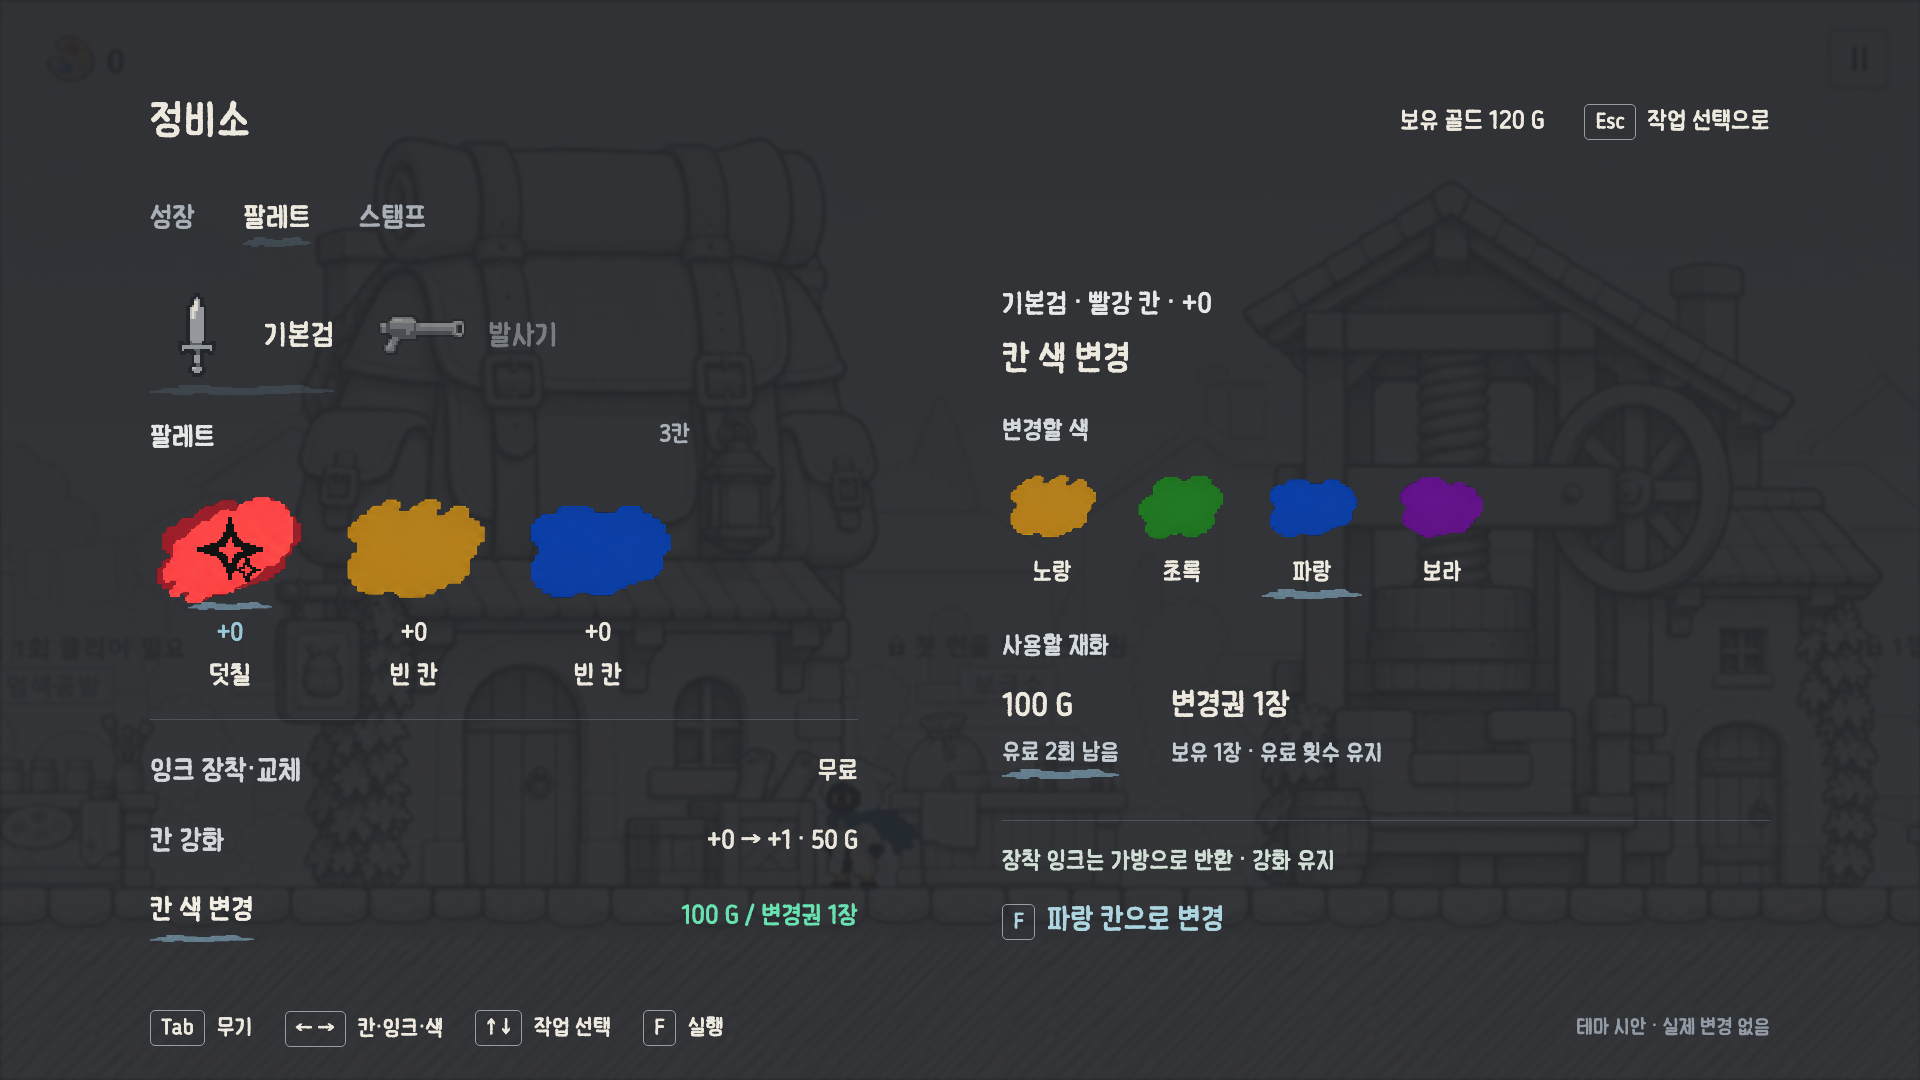
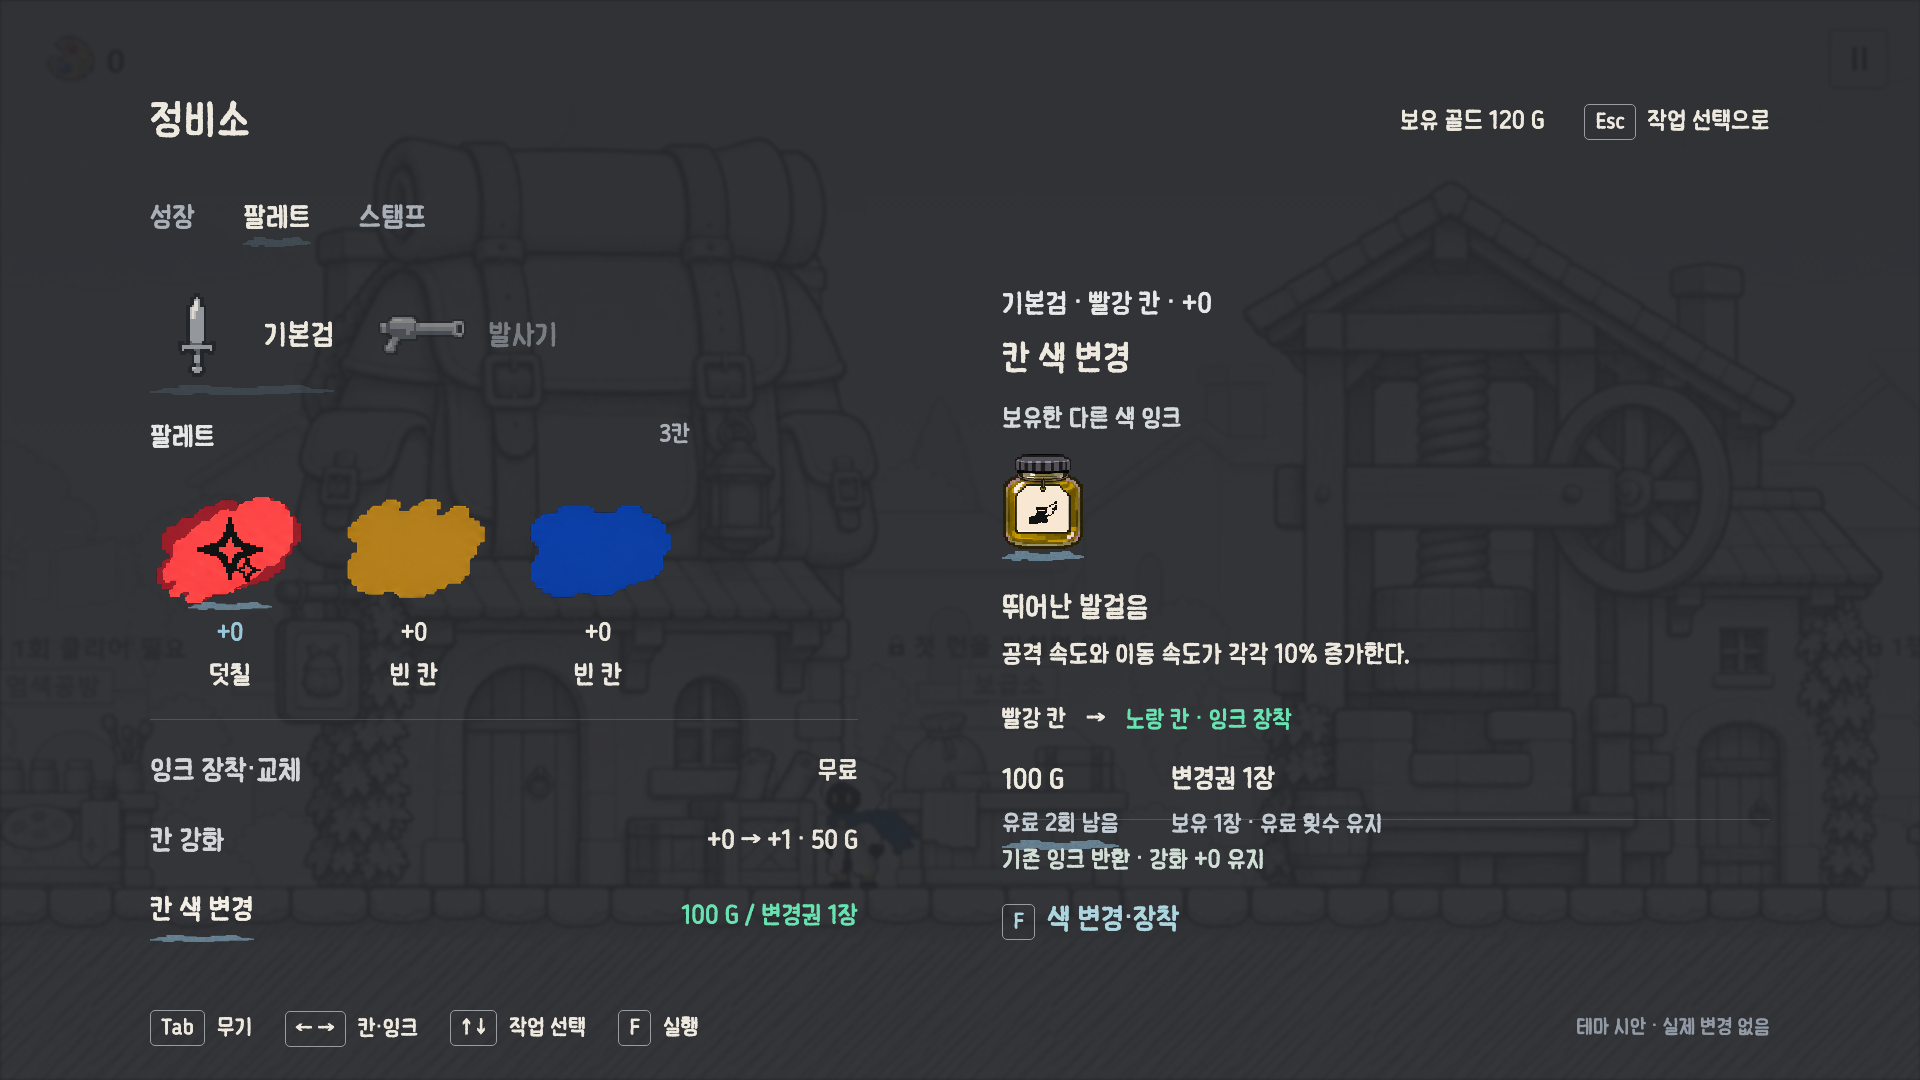
Select owned inks for palette recoloring and handle empty states

Changed region(s): [[0.5, 0.3667, 0.7812, 0.6111], [0.5, 0.6417, 0.7188, 0.8861], [0.2188, 0.9167, 0.375, 0.9778]]

diff --git a/ui/work/theme/ink-pixel-v1/maintenance-palette-v1/index.html b/ui/work/theme/ink-pixel-v1/maintenance-palette-v1/index.html
@@ -35,15 +35,18 @@ body[data-mode="ink"] .slot.chosen .level{color:#eee9df}
 .services{display:flex;flex-direction:column;gap:14px;padding-top:24px;margin-top:28px}.taskOption{display:flex;align-items:center;justify-content:space-between;width:100%;padding:9px 0!important;position:relative}.taskName{font-size:29px;color:#d2d6db}.taskMeta{font-size:26px;color:#eae6dc}.selectedTask .taskName{color:#f3eee4}.selectedTask .taskName:after{content:'';display:block;height:7px;margin-top:5px;background:url(../screen-set-v6/assets/selection-swash.png) center/100% 100% no-repeat}.selectedTask .taskMeta{color:#68e2b0}
 .sectionLabel{font-size:26px;color:#d3d9dc;margin:36px 0 18px}.colorOptions{display:flex;gap:30px;margin:24px 0 44px}.colorOptions button{text-align:center;position:relative;font-size:25px}.colorOptions img{display:block;width:100px;height:74px;margin-bottom:14px}.payment{display:flex;gap:52px;margin-top:26px}.payment button{position:relative;font-size:32px}.payment small{display:block;font-size:24px;color:#c3cbd3;margin-top:14px}.taskDecision{position:absolute;bottom:0;left:0;right:0;border-top:1px solid #a8afb640;padding-top:22px}.decisionNote{font-size:25px;line-height:1.5;margin:0 0 22px;color:#d1ded6}.taskDecision button{font-size:30px;color:#acd5df}.taskDecision button:disabled{color:#a8afb6}.upgradeCompare{margin-top:52px;margin-bottom:40px}.upgradeNote{line-height:1.5}
 body[data-mode="ink"] .sectionLabel{margin:18px 0 10px}body[data-mode="ink"] .candidateRow{height:88px;min-height:88px;margin:14px 0 18px}body[data-mode="ink"] .candidateRow button,body[data-mode="ink"] .candidateRow img{width:78px;height:88px}body[data-mode="ink"] .transition{margin:14px 0 16px}body[data-mode="ink"] .candidateTitle{font-size:32px}body[data-mode="ink"] p.effect{font-size:26px;line-height:1.45}
-</style><div class="screen"><div class="world"></div><main><header><h1>정비소</h1><aside><span>보유 골드 120 G</span><span><kbd>Esc</kbd><span id="escLabel">닫기</span></span></aside></header><nav><a href="../maintenance-set-v1/index.html?view=growth">성장</a><span class="active mark">팔레트</span><span>스탬프</span></nav><div class="cols"><section><div class="weapons" id="weapons"></div><div class="paletteHead"><span class="label">팔레트</span><span class="label" id="slotCount">3칸</span></div><div class="slots" id="slots"></div><div class="services"><button onclick="showService(0)"><span class="serviceTitle">칸 강화</span><span class="serviceValue"><span>+0</span><span class="serviceArrow">→</span><span class="serviceGain">+1</span></span><span class="serviceCost"><span class="costLabel">비용</span><span>50 G</span></span></button><button onclick="showService(1)"><span class="serviceTitle">칸 색 변경</span><span class="serviceValue changeValue">칸 색 변경</span><span class="serviceCost"><span class="costLabel">비용</span><span>변경권 1장</span></span></button></div></section><section id="detail"></section></div></main><footer class="foot"><span><kbd>Tab</kbd>무기</span><span><kbd>← →</kbd>칸·잉크·색</span><span><kbd>↑ ↓</kbd>작업 선택</span><span><kbd>F</kbd><span id="fLabel">잉크 고르기</span></span><span class="note">테마 시안 · 실제 변경 없음</span></footer></div><script>
+.recolorInks{display:flex;gap:28px;margin:20px 0 26px;overflow-x:auto;padding:0 0 15px}.recolorInks button{position:relative;flex:none}.recolorInks img{display:block;width:82px;height:95px}.recolorDescription{min-height:100px}.recolorDescription h3{font-size:30px;font-weight:normal;color:#eee9df;margin:0 0 12px}.recolorDescription p{font-size:26px;line-height:1.45;margin:0;word-break:keep-all}.colorChangeSummary{display:flex;gap:20px;font-size:25px;align-items:center;margin:14px 0 28px}.colorChangeSummary strong{font-weight:normal;color:#68e2b0}body[data-mode="color"] .sectionLabel{margin:24px 0 14px}body[data-mode="color"] .payment{margin-top:20px}body[data-mode="color"] .payment button{font-size:28px}.recolorEmpty{font-size:30px;color:#d2d6db;margin-top:60px}
+</style><div class="screen"><div class="world"></div><main><header><h1>정비소</h1><aside><span>보유 골드 120 G</span><span><kbd>Esc</kbd><span id="escLabel">닫기</span></span></aside></header><nav><a href="../maintenance-set-v1/index.html?view=growth">성장</a><span class="active mark">팔레트</span><span>스탬프</span></nav><div class="cols"><section><div class="weapons" id="weapons"></div><div class="paletteHead"><span class="label">팔레트</span><span class="label" id="slotCount">3칸</span></div><div class="slots" id="slots"></div><div class="services"><button onclick="showService(0)"><span class="serviceTitle">칸 강화</span><span class="serviceValue"><span>+0</span><span class="serviceArrow">→</span><span class="serviceGain">+1</span></span><span class="serviceCost"><span class="costLabel">비용</span><span>50 G</span></span></button><button onclick="showService(1)"><span class="serviceTitle">칸 색 변경</span><span class="serviceValue changeValue">칸 색 변경</span><span class="serviceCost"><span class="costLabel">비용</span><span>변경권 1장</span></span></button></div></section><section id="detail"></section></div></main><footer class="foot"><span><kbd>Tab</kbd>무기</span><span><kbd>← →</kbd>칸·잉크</span><span><kbd>↑ ↓</kbd>작업 선택</span><span><kbd>F</kbd><span id="fLabel">잉크 고르기</span></span><span class="note">테마 시안 · 실제 변경 없음</span></footer></div><script>
 const A='../screen-set-v6/assets/';const inks=[{id:'ink3_red_01',name:'덧칠',color:'red',desc:'원공격 피해의 20%인 추가타 1회를 가한다.'},{id:'ink3_red_02',name:'집중 공격',color:'red',desc:'같은 몬스터를 연달아 때릴 때마다 그 몬스터에게 주는 피해가 4%씩 오른다. 최대 5중첩(20%)이다.'},{id:'ink3_red_04',name:'터지는 잉크',color:'red',desc:'표식을 터트린 몬스터에게 기준 피해 60%인 추가타 1회를 가한다.'},{id:'ink3_yellow_02',name:'뛰어난 발걸음',color:'yellow',desc:'공격 속도와 이동 속도가 각각 10% 증가한다.'},{id:'ink3_blue_01',name:'범위 증폭',color:'blue',desc:'공격 범위(반경)가 20% 증가한다.'}];const colorNames={red:'빨강',yellow:'노랑',blue:'파랑',green:'초록',purple:'보라'};const expanded=new URLSearchParams(location.search).get('slots')==='5';const colors=expanded?['red','yellow','blue','green','purple']:['red','yellow','blue'];const sets=expanded?[[0,null,null,null,null],[null,null,4,null,null]]:[[0,null,null],[null,null,4]];let mode=new URLSearchParams(location.search).get('state')==='ink'?'ink':'slot',slot=mode==='ink'?0:new URLSearchParams(location.search).get('state')==='slot'?1:-1,weapon=0,candidate=1;
 const slotStats=sets.map(row=>row.map(()=>({level:0})));
-const slotColors=sets.map(()=>[...colors]);let task=null,gold=120,purchases=0,tickets=1,paidLeft=2,payment='gold',newColor='blue',message='';
+const slotColors=sets.map(()=>[...colors]);let task=null,gold=120,purchases=0,tickets=1,paidLeft=2,payment='gold',colorInk=-1,message='';
 const costs=()=>50+25*purchases;
 function available(){return slot<0?[]:inks.map((x,index)=>({...x,index})).filter(x=>x.color===slotColors[weapon][slot]&&x.index!==sets[weapon][slot]);}
 function setSlot(i){slot=i;task=null;message='';render()}
 function setWeapon(i){weapon=i;slot=-1;task=null;message='';render()}
-function pickTask(t){if(slot<0)return;task=t;message='';candidate=available()[0]?.index??-1;newColor=['red','yellow','green','blue','purple'].find(c=>c!==slotColors[weapon][slot]);render()}
+function colorCandidates(){if(slot<0||new URLSearchParams(location.search).get('case')==='no-ink')return [];const mounted=sets.flat();return inks.map((x,index)=>({...x,index})).filter(x=>!mounted.includes(x.index)&&x.color!==slotColors[weapon][slot]);}
+function selectColorInk(i){colorInk=i;message='';render()}
+function pickTask(t){if(slot<0)return;task=t;message='';candidate=available()[0]?.index??-1;colorInk=colorCandidates()[0]?.index??-1;render()}
 function render(){
  document.body.classList.toggle('expanded',expanded);document.body.dataset.mode=task||'slot';
  document.getElementById('slotCount').textContent=colors.length+'칸';document.querySelector('header aside>span').textContent='보유 골드 '+gold+' G';document.getElementById('escLabel').textContent=task?'작업 선택으로':slot>=0?'칸 선택 해제':'닫기';
@@ -61,18 +64,23 @@ function render(){
  body+=`<div class="upgradeCompare"><div><p>현재</p><strong>${value(level)}</strong></div>${max?'':`<span>→</span><div><p>강화 후</p><strong class="next">${value(level+1)}</strong></div>`}</div><p class="upgradeNote">${current?.id==='ink3_red_01'?'덧칠 · 추가타 피해':current?'해당 잉크의 효과 수치는 별도 검토':'빈 칸 강화'}</p><p class="upgradeNote">잉크 교체·색 변경 후에도 강화 유지</p>`;
  note=max?'최대 강화입니다.':gold<costs()?`골드 ${costs()-gold} G 부족`:`비용 ${costs()} G`;action='강화하기';
  }else if(task==='color'){
- body+=`<p class="sectionLabel">변경할 색</p><div class="colorOptions">${['red','yellow','green','blue','purple'].filter(x=>x!==c).map(x=>`<button class="${newColor===x?'mark':''}" onclick="newColor='${x}';render()"><img src="${A}empty-${x}.png" alt="">${colorNames[x]}</button>`).join('')}</div><p class="sectionLabel">사용할 재화</p><div class="payment"><button class="${payment==='gold'?'mark':''}" onclick="payment='gold';render()">100 G<small>유료 ${paidLeft}회 남음</small></button><button class="${payment==='ticket'?'mark':''}" onclick="payment='ticket';render()">변경권 1장<small>보유 ${tickets}장 · 유료 횟수 유지</small></button></div>`;
- disabled=payment==='gold'?(gold<100||paidLeft<1):tickets<1;
- note=disabled?(payment==='gold'?(paidLeft<1?'유료 횟수 소진':'골드 부족'):'변경권 없음'):(current?'장착 잉크는 가방으로 반환 · 강화 유지':'강화 단계 유지');action=colorNames[newColor]+' 칸으로 변경';
+ const list=current?colorCandidates():[];if(!list.some(x=>x.index===colorInk))colorInk=list[0]?.index??-1;const selected=inks[colorInk];
+ if(!current){body+='<p class="recolorEmpty">빈 칸은 색을 변경할 수 없습니다.</p>';}
+ else if(!selected){body+='<p class="recolorEmpty">보유한 다른 색 잉크가 없습니다.</p>';}
+ else{
+ body+=`<p class="sectionLabel">보유한 다른 색 잉크</p><div class="recolorInks">${list.map(x=>`<button class="${colorInk===x.index?'mark':''}" onclick="selectColorInk(${x.index})" aria-label="${x.name}"><img src="${A}${x.id}-jar.png" alt="${x.name}"></button>`).join('')}</div><div class="recolorDescription"><h3>${selected.name}</h3><p>${selected.desc}</p></div><div class="colorChangeSummary"><span>${colorNames[c]} 칸</span><span>→</span><strong>${colorNames[selected.color]} 칸 · 잉크 장착</strong></div><div class="payment"><button class="${payment==='gold'?'mark':''}" onclick="payment='gold';message='';render()">100 G<small>유료 ${paidLeft}회 남음</small></button><button class="${payment==='ticket'?'mark':''}" onclick="payment='ticket';message='';render()">변경권 1장<small>보유 ${tickets}장 · 유료 횟수 유지</small></button></div>`;
+ }
+ disabled=!current||!selected||(payment==='gold'?(gold<100||paidLeft<1):tickets<1);
+ note=!current?'장착된 잉크가 있는 칸을 선택하세요.':!selected?'다른 색 잉크를 획득한 뒤 이용할 수 있습니다.':disabled?(payment==='gold'?(paidLeft<1?'유료 횟수 소진':'골드 부족'):'변경권 없음'):'기존 잉크 반환 · 강화 +'+level+' 유지';action='색 변경·장착';
  }else{
  const list=available(),d=inks[candidate];body+=`<p class="sectionLabel">현재 · ${current?current.name:'빈 칸'}</p><p class="effect">${current?current.desc:''}</p><div class="transition"><img src="${A}transition-down.png" alt=""></div><p class="label">보유 잉크</p><div class="candidateRow">${list.map(x=>`<button class="${candidate===x.index?'mark':''}" onclick="candidate=${x.index};render()"><img src="${A}${x.id}-jar.png" alt="${x.name}"></button>`).join('')}</div>${d?`<h2 class="candidateTitle">${d.name}</h2><p class="effect">${d.desc}</p>`:'<p class="effect">보유한 잉크 없음</p>'}`;disabled=!d;note=current?'현재 잉크는 가방으로 반환':'빈 칸에 장착';action=current?'교체 · 무료':'장착 · 무료';
  }
  detail.innerHTML=body+`<div class="taskDecision"><p class="decisionNote" role="status">${message||note}</p><button onclick="executeTask()" ${disabled?'disabled':''}><kbd>F</kbd>${action}</button></div>`;
 }
 function executeTask(){if(slot<0||!task)return;const st=slotStats[weapon][slot];if(task==='upgrade'){if(st.level>=5||gold<costs())return;gold-=costs();purchases++;st.level++;message='강화 완료 · +'+st.level;}
-else if(task==='color'){const valid=payment==='gold'?gold>=100&&paidLeft>0:tickets>0;if(!valid)return;message='변경 결과 예시 · '+colorNames[newColor]+' 칸 / 강화 +'+st.level+' 유지';}
+else if(task==='color'){const selected=colorCandidates().find(x=>x.index===colorInk);const valid=payment==='gold'?gold>=100&&paidLeft>0:tickets>0;if(!valid||!selected||sets[weapon][slot]==null)return;message='미리보기 · '+colorNames[selected.color]+' 칸에 '+selected.name+' 장착 / 실제 변경 없음';}
 else{if(candidate<0)return;message='장착 결과 미리보기 · 실제 아이템 변경 없음';}render();}
-document.addEventListener('keydown',e=>{if(e.repeat)return;const k=e.key;if(!['Tab','Escape','ArrowLeft','ArrowRight','ArrowUp','ArrowDown','f','F'].includes(k))return;e.preventDefault();if(k==='Tab')setWeapon(1-weapon);else if(k==='Escape'){if(task){task=null;render()}else if(slot>=0){slot=-1;render()}else{document.querySelector('main').hidden=true;}}else if(k.toLowerCase()==='f'){if(slot<0)setSlot(0);else if(!task)pickTask('ink');else executeTask();}else if(k==='ArrowDown'||k==='ArrowUp'){if(slot>=0){const ts=['ink','upgrade','color'];pickTask(ts[(ts.indexOf(task)+(k==='ArrowDown'?1:2)+3)%3]);}}else if(!task)setSlot(slot<0?0:(slot+(k==='ArrowLeft'?colors.length-1:1))%colors.length);else if(task==='color'){const opts=['red','yellow','green','blue','purple'].filter(c=>c!==slotColors[weapon][slot]);newColor=opts[(opts.indexOf(newColor)+(k==='ArrowLeft'?opts.length-1:1))%opts.length];render();}else if(task==='ink'){const a=available();if(a.length){candidate=a[(a.findIndex(x=>x.index===candidate)+(k==='ArrowLeft'?a.length-1:1))%a.length].index;render();}}});
+document.addEventListener('keydown',e=>{if(e.repeat)return;const k=e.key;if(!['Tab','Escape','ArrowLeft','ArrowRight','ArrowUp','ArrowDown','f','F'].includes(k))return;e.preventDefault();if(k==='Tab')setWeapon(1-weapon);else if(k==='Escape'){if(task){task=null;render()}else if(slot>=0){slot=-1;render()}else{document.querySelector('main').hidden=true;}}else if(k.toLowerCase()==='f'){if(slot<0)setSlot(0);else if(!task)pickTask('ink');else executeTask();}else if(k==='ArrowDown'||k==='ArrowUp'){if(slot>=0){const ts=['ink','upgrade','color'];pickTask(ts[(ts.indexOf(task)+(k==='ArrowDown'?1:2)+3)%3]);}}else if(!task)setSlot(slot<0?0:(slot+(k==='ArrowLeft'?colors.length-1:1))%colors.length);else if(task==='color'){const opts=colorCandidates();if(opts.length){colorInk=opts[(opts.findIndex(x=>x.index===colorInk)+(k==='ArrowLeft'?opts.length-1:1))%opts.length].index;message='';render();}}else if(task==='ink'){const a=available();if(a.length){candidate=a[(a.findIndex(x=>x.index===candidate)+(k==='ArrowLeft'?a.length-1:1))%a.length].index;render();}}});
 function fit(){document.querySelector('.screen').style.transform=`scale(${Math.min(innerWidth/1920,innerHeight/1080)})`}onresize=fit;
-const q=new URLSearchParams(location.search),view=q.get('task');if(view){slot=0;task=view;candidate=available()[0]?.index??-1;}else if(q.get('state')==='ink'){task='ink';candidate=1;}fit();render();
+const q=new URLSearchParams(location.search),view=q.get('task');if(view){slot=q.get('case')==='empty'?1:0;task=view;candidate=available()[0]?.index??-1;colorInk=colorCandidates()[0]?.index??-1;}else if(q.get('state')==='ink'){task='ink';candidate=1;}fit();render();
 </script></html>

diff --git a/ui/work/theme/ink-pixel-v1/maintenance-palette-v1/README.md b/ui/work/theme/ink-pixel-v1/maintenance-palette-v1/README.md
@@ -1,3 +1,8 @@
+## 현행 색 변경: 보유 잉크 선택
+2026-11-09 수정. `?task=color`: 보유한 미장착 다른 색 잉크를 선택하고 효과/현재 색→변경 색/장착 결과를 확인. 현재 예시 카탈로그에서 장착 중인 인덱스를 제외하므로 노랑 후보 1개. 동일 파츠 다중 인스턴스·무기별 중복 호환의 완전한 게임 로직은 시안 범위 밖이다.
+빈 칸: `?task=color&case=empty`, 후보 없음: `?task=color&case=no-ink`. 실행 비활성화. 골드/변경권 조건 유지. 실행은 결과 안내만 표시하며 실제 거래 없음. 중앙 간격 144px 및 좌우 배치 유지.
+원본/960×540 렌더 확인. 후보 제외·빈칸 실행 방지·골드 부족 상태 로직 검사 통과. 아래 색상 직접 선택 설명은 이전 기록으로 대체됨.
+
 # 팔레트 작업 선택 통합 시안 — 현행
 
 [index.html](index.html)에서 칸 선택 → 왼쪽 작업 선택 → 오른쪽 상세/실행.
